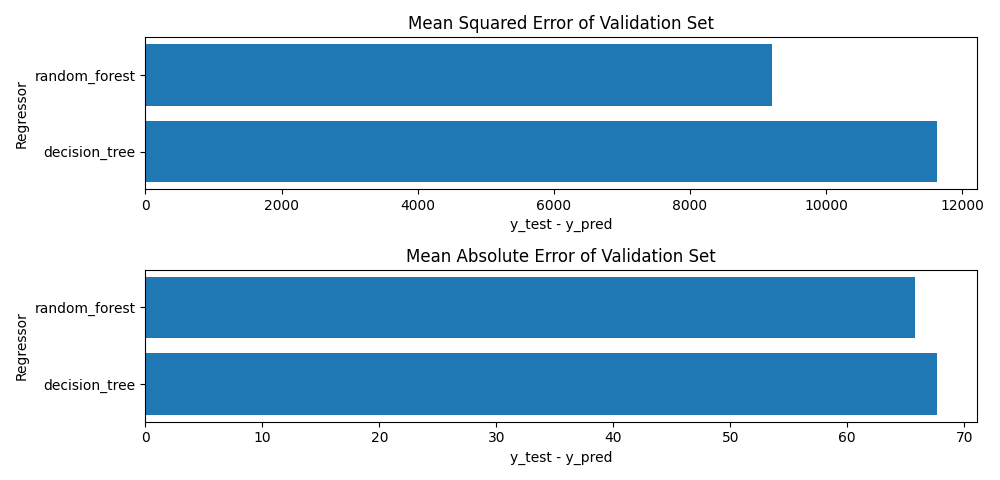
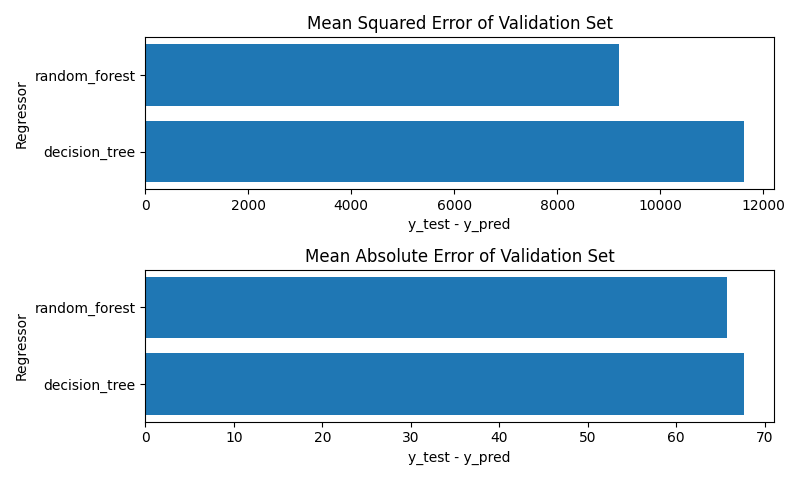
better image size

diff --git a/evaluation.py b/evaluation.py
@@ -29,7 +29,7 @@ plt.savefig('img/correlation.png')
 # Plotting errors
 plot_size = len(model_predictions.columns)
 fig2, ax = plt.subplots(plot_size, 1)
-fig2.set_figwidth(5*plot_size)
+fig2.set_figwidth(8)
 values = np.zeros((len(model_predictions.columns), 2))
 for i, model in enumerate(model_predictions):
     y_pred = model_predictions[model]
